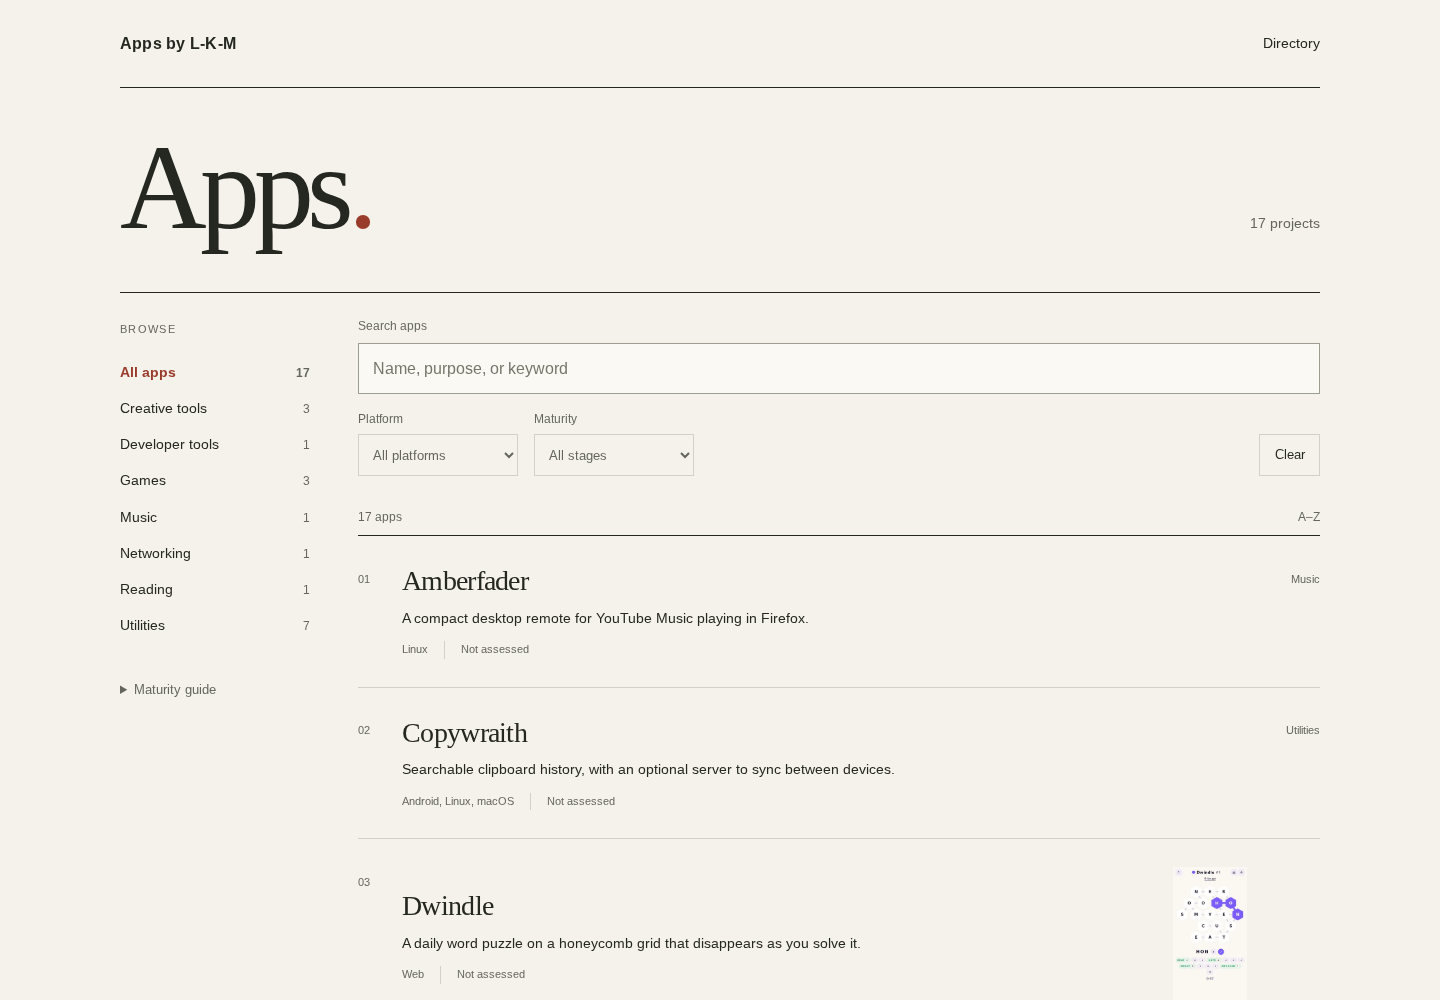
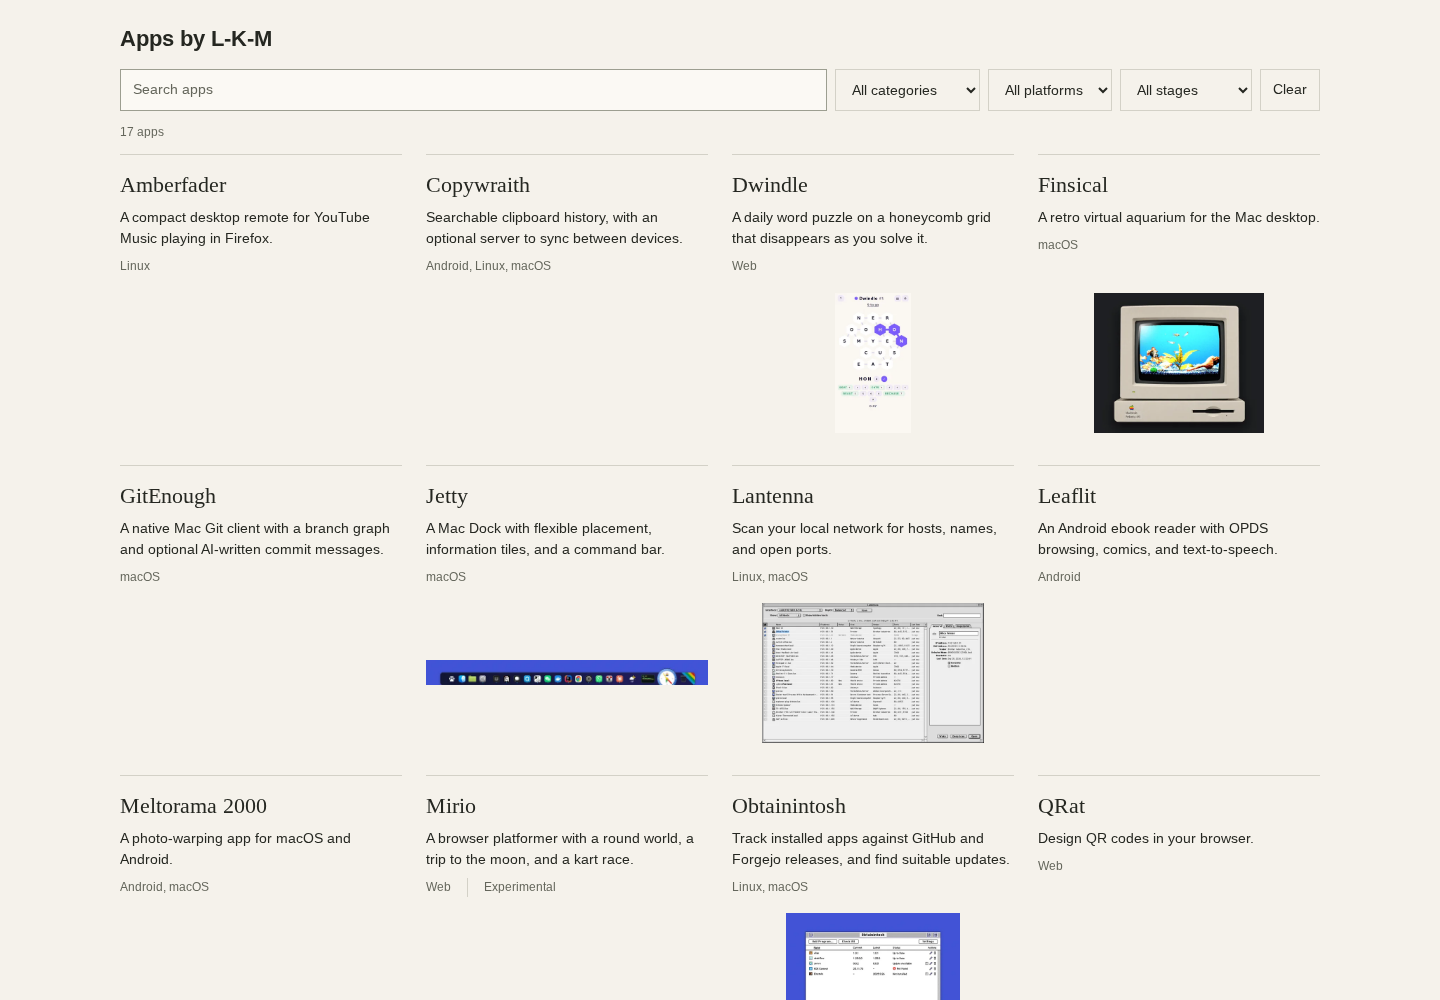
Simplify the directory into an app grid
Put app browsing first with a responsive grid and compact controls.
Remove the oversized masthead, sidebar and repeated page chrome.

diff --git a/public/style.css b/public/style.css
@@ -29,65 +29,40 @@ h1, h2, p, figure { margin: 0; }
 h1, h2 { font-weight: 400; }
 img { display: block; max-width: 100%; }
 
-.page { width: min(1200px, calc(100% - 96px)); margin-inline: auto; }
+.page { width: min(1200px, calc(100% - 64px)); margin-inline: auto; padding-block: 1.5rem; }
 .skip-link { position: absolute; top: -100px; left: 1rem; background: var(--paper); padding: 0.75rem; z-index: 1; }
 .skip-link:focus { top: 1rem; }
-.site-header { display: flex; justify-content: space-between; align-items: center; gap: 2rem; min-height: 88px; border-bottom: 1px solid var(--ink); }
-.site-header a { text-decoration: none; }
-.site-name { font-weight: 600; letter-spacing: 0.015em; }
-.site-header nav { font-size: 0.85rem; }
-.masthead { display: flex; align-items: baseline; justify-content: space-between; padding-block: 2.5rem 2.75rem; }
-.masthead h1 { font-family: var(--serif); font-size: clamp(4rem, 9vw, 7.5rem); letter-spacing: -0.055em; line-height: 1; }
-.title-stop { color: var(--accent); }
-.masthead > p { color: var(--muted); font-size: 0.9rem; }
-.directory-layout { display: grid; grid-template-columns: 190px minmax(0, 1fr); gap: 3rem; padding-top: 1.5rem; border-top: 1px solid var(--ink); }
-.directory-aside { padding-top: 0.25rem; }
-.categories h2 { color: var(--muted); font-size: 0.7rem; text-transform: uppercase; letter-spacing: 0.12em; margin-bottom: 1rem; }
-.categories a { display: flex; justify-content: space-between; align-items: baseline; gap: 0.75rem; padding-block: 0.45rem; font-size: 0.85rem; text-decoration: none; }
-.categories a[aria-current] { color: var(--accent); font-weight: 600; }
-.categories a span { color: var(--muted); font-size: 0.75rem; font-variant-numeric: tabular-nums; }
-.maturity-key { margin-top: 2.25rem; font-size: 0.8rem; }
-.maturity-key summary { color: var(--muted); }
-.maturity-key dl { margin-top: 1rem; }
-.maturity-key dt { font-weight: 600; }
-.maturity-key dd { color: var(--muted); margin: 0.25rem 0 1rem; }
-.filters { margin-bottom: 1.5rem; }
-.filters label { display: block; font-size: 0.75rem; color: var(--muted); }
-.search-field input { display: block; width: 100%; margin-top: 0.4rem; padding: 0.75rem 0.9rem; font-size: 1rem; border-color: #9c9e90; background: #fbf9f4; }
-.search-field input::placeholder { color: #75776b; }
-.filter-selects { display: flex; align-items: flex-end; gap: 1rem; margin-top: 1rem; }
-.filter-selects select { display: block; min-width: 160px; min-height: 42px; margin-top: 0.3rem; padding: 0.45rem 2rem 0.45rem 0.65rem; font-size: 0.8rem; }
-.filter-selects .mobile-category { display: none; }
-.reset-button { margin-left: auto; min-height: 42px; font-size: 0.8rem; }
-.result-line { display: flex; justify-content: space-between; padding-block: 0.5rem; color: var(--muted); font-size: 0.75rem; border-bottom: 1px solid var(--ink); }
-.app-list { padding: 0; margin: 0; list-style: none; }
-.app-row { display: grid; grid-template-columns: 24px minmax(0, 1fr) 220px; gap: 1.25rem; align-items: center; padding-block: 1.75rem; border-bottom: 1px solid var(--rule); }
-.row-number { align-self: start; padding-top: 0.4rem; font-size: 0.7rem; color: var(--muted); font-variant-numeric: tabular-nums; }
-.row-title { display: flex; gap: 0.75rem; align-items: center; }
-.row-title h2 { font-family: var(--serif); font-size: 1.75rem; line-height: 1.2; letter-spacing: -0.025em; overflow-wrap: anywhere; }
-.row-title a { text-decoration: none; }
+.directory-title { font-size: 1.4rem; font-weight: 600; line-height: 1.3; margin-bottom: 1rem; overflow-wrap: anywhere; }
+.filters { display: flex; flex-wrap: wrap; gap: 0.5rem; }
+.filters input, .filters select, .filters button { min-height: 42px; padding: 0.5rem 0.75rem; font-size: 0.85rem; }
+.filters input { flex: 1 1 260px; min-width: 0; background: #fbf9f4; border-color: #9c9e90; }
+.filters input::placeholder { color: var(--muted); }
+.filters select { max-width: 100%; }
+.result-count { color: var(--muted); font-size: 0.75rem; margin-block: 0.75rem; }
+.app-grid { display: grid; grid-template-columns: repeat(auto-fill, minmax(min(260px, 100%), 1fr)); gap: 1rem 1.5rem; padding: 0; margin: 0; list-style: none; }
+.app-card { display: flex; flex-direction: column; gap: 0.5rem; min-width: 0; padding-block: 1rem; border-top: 1px solid var(--rule); }
+.card-heading { display: flex; gap: 0.75rem; align-items: center; }
+.card-heading h2 { font-family: var(--serif); font-size: 1.4rem; line-height: 1.25; overflow-wrap: anywhere; }
+.card-heading a { text-decoration: none; }
 .app-icon { width: 42px; height: 42px; object-fit: contain; flex-shrink: 0; }
-.app-summary { margin-top: 0.55rem; font-size: 0.9rem; line-height: 1.6; }
-.app-meta { display: flex; flex-wrap: wrap; gap: 0.4rem 1rem; margin-top: 0.7rem; font-size: 0.7rem; color: var(--muted); }
+.app-summary { font-size: 0.875rem; line-height: 1.5; }
+.app-meta { display: flex; flex-wrap: wrap; gap: 0.4rem 1rem; font-size: 0.75rem; color: var(--muted); }
 .app-meta span + span { padding-left: 1rem; border-left: 1px solid var(--rule); }
-.row-preview { display: block; }
-.row-preview img { width: 220px; height: 138px; object-fit: contain; }
-.row-category { align-self: start; justify-self: end; padding-top: 0.4rem; font-size: 0.7rem; color: var(--muted); text-align: right; }
+.app-preview { display: block; width: 100%; margin-top: auto; padding-top: 0.5rem; }
+.app-preview img { width: 100%; height: 140px; object-fit: contain; }
 .empty-state { padding-block: 3.5rem; }
 .empty-state h2 { font-family: var(--serif); font-size: 2rem; }
 .empty-state p { color: var(--muted); margin-block: 0.5rem 1.5rem; }
 .catalogue-empty { padding-block: 3rem; }
-.site-footer { display: flex; justify-content: space-between; gap: 1rem; border-top: 1px solid var(--ink); margin-top: 4rem; padding-block: 1.5rem 2rem; color: var(--muted); font-size: 0.75rem; }
-.site-footer a { text-decoration: none; }
 
-.back-link { display: inline-block; margin-top: 2rem; font-size: 0.85rem; text-decoration: none; }
-.detail-heading { padding-block: 2rem 2.5rem; max-width: 950px; }
+.back-link { display: inline-block; font-size: 0.85rem; text-decoration: none; }
+.detail-heading { padding-block: 1.25rem 2rem; max-width: 950px; }
 .category-label { color: var(--accent); font-size: 0.75rem; margin-bottom: 0.75rem; }
 .detail-title { display: flex; align-items: center; gap: 1.25rem; }
-.detail-title h1 { font-family: var(--serif); font-size: clamp(2.75rem, 6vw, 5rem); line-height: 1.1; letter-spacing: -0.04em; overflow-wrap: anywhere; }
+.detail-title h1 { font-family: var(--serif); font-size: clamp(2rem, 4vw, 3.25rem); line-height: 1.1; letter-spacing: -0.04em; overflow-wrap: anywhere; }
 .detail-title .app-icon { width: 72px; height: 72px; }
 .detail-summary { font-size: 1.15rem; max-width: 740px; margin-top: 1rem; }
-.detail-layout { display: grid; grid-template-columns: 220px minmax(0, 1fr); gap: 4rem; border-top: 1px solid var(--ink); padding-top: 2rem; }
+.detail-layout { display: grid; grid-template-columns: 220px minmax(0, 1fr); gap: 2rem; border-top: 1px solid var(--ink); padding-top: 2rem; }
 .detail-facts dl { margin: 0; }
 .detail-facts dt { color: var(--muted); text-transform: uppercase; letter-spacing: 0.1em; font-size: 0.65rem; }
 .detail-facts dd { margin: 0.4rem 0 1.5rem; font-size: 0.9rem; }
@@ -105,51 +80,25 @@ img { display: block; max-width: 100%; }
 .gallery img { max-height: 750px; width: 100%; object-fit: contain; object-position: left; }
 .gallery figcaption { font-size: 0.8rem; color: var(--muted); margin-top: 0.75rem; }
 
-@media (max-width: 1000px) {
-  .page { width: calc(100% - 64px); }
-  .directory-layout { grid-template-columns: 160px minmax(0, 1fr); gap: 2rem; }
-  .app-row { grid-template-columns: 20px minmax(0, 1fr) 160px; gap: 1rem; }
-  .row-preview img { width: 160px; height: 110px; }
-  .filter-selects select { min-width: 140px; }
-  .detail-layout { gap: 2rem; }
-}
-
 @media (max-width: 760px) {
   .page { width: calc(100% - 40px); }
-  .site-header { min-height: 72px; }
-  .masthead { padding-block: 2rem; }
-  .directory-layout { display: flex; flex-direction: column; gap: 0; padding-top: 1.25rem; }
-  .directory-aside { order: 2; }
-  .categories { display: none; }
-  .filter-selects { flex-wrap: wrap; gap: 0.75rem; }
-  .filter-selects label { flex: 1 1 130px; }
-  .filter-selects select { min-width: 0; width: 100%; }
-  .filter-selects .mobile-category { display: block; }
-  .reset-button { flex: 0 0 auto; }
-  .app-row { grid-template-columns: 20px minmax(0, 1fr) 120px; }
-  .row-title h2 { font-size: 1.55rem; }
-  .row-preview img { width: 120px; height: 100px; }
-  .app-summary { font-size: 0.85rem; }
+  .filters input { flex-basis: 100%; }
+  .filters select { flex: 1 1 140px; min-width: 0; }
   .detail-layout { grid-template-columns: 1fr; gap: 1.5rem; }
   .detail-facts { display: grid; grid-template-columns: 1fr 1fr; gap: 1.5rem; }
   .app-links { margin-top: 0; }
   .detail-title .app-icon { width: 56px; height: 56px; }
-  .site-footer { margin-top: 3rem; }
 }
 
 @media (max-width: 480px) {
-  .app-row { grid-template-columns: 18px minmax(0, 1fr); gap: 0.75rem; }
-  .row-preview { grid-column: 2; }
-  .row-preview img { width: 100%; height: 150px; object-position: left; }
-  .row-category { display: none; }
   .app-meta { gap: 0.4rem 0.75rem; }
   .app-meta span + span { padding-left: 0.75rem; }
   .detail-summary { font-size: 1rem; }
 }
 
 @media print {
-  .filters, .directory-aside, .site-header nav, .back-link { display: none; }
+  .filters, .back-link { display: none; }
   .page { width: 100%; }
-  .directory-layout, .detail-layout { display: block; }
-  .app-row, figure { break-inside: avoid; }
+  .detail-layout { display: block; }
+  .app-card, figure { break-inside: avoid; }
 }

diff --git a/public/directory.js b/public/directory.js
@@ -1,7 +1,6 @@
 (() => {
   const form = document.querySelector('.filters');
   const rows = [...document.querySelectorAll('[data-app]')];
-  const categoryLinks = [...document.querySelectorAll('[data-category-link]')];
   const result = document.querySelector('[data-result-count]');
   const empty = document.querySelector('[data-empty]');
   const fields = ['q', 'platform', 'maturity', 'category'];
@@ -28,10 +27,6 @@
       if (visible) count += 1;
     }
 
-    for (const link of categoryLinks) {
-      if (link.dataset.categoryLink === values.category) link.setAttribute('aria-current', 'true');
-      else link.removeAttribute('aria-current');
-    }
     result.textContent = `${count} ${count === 1 ? 'app' : 'apps'}`;
     empty.hidden = count !== 0 || rows.length === 0;
 
@@ -54,15 +49,6 @@
   form.addEventListener('submit', (event) => { event.preventDefault(); filter(); });
   form.addEventListener('reset', (event) => { event.preventDefault(); clear(); });
   document.querySelector('[data-clear]').addEventListener('click', clear);
-
-  for (const link of categoryLinks) {
-    link.addEventListener('click', (event) => {
-      if (event.ctrlKey || event.metaKey || event.shiftKey || event.altKey) return;
-      event.preventDefault();
-      form.elements.category.value = link.dataset.categoryLink;
-      filter();
-    });
-  }
 
   window.addEventListener('popstate', () => { restore(); filter(); });
   restore();

diff --git a/AGENTS.md b/AGENTS.md
@@ -24,7 +24,7 @@
 
 ## Visual constraints
 
-Editorial typography, off-white paper, ruled rows, one accent. Screenshots show the apps.
+Plain typography, off-white paper, compact app grid, one accent. Screenshots show the apps.
 No gradients, arbitrary rainbow colours, pulse badges, decorative card tabs, emoji,
 glassmorphism, generic hype, remote font dependencies, or redundant descriptions.
 Check desktop and phone screenshots after layout changes.
